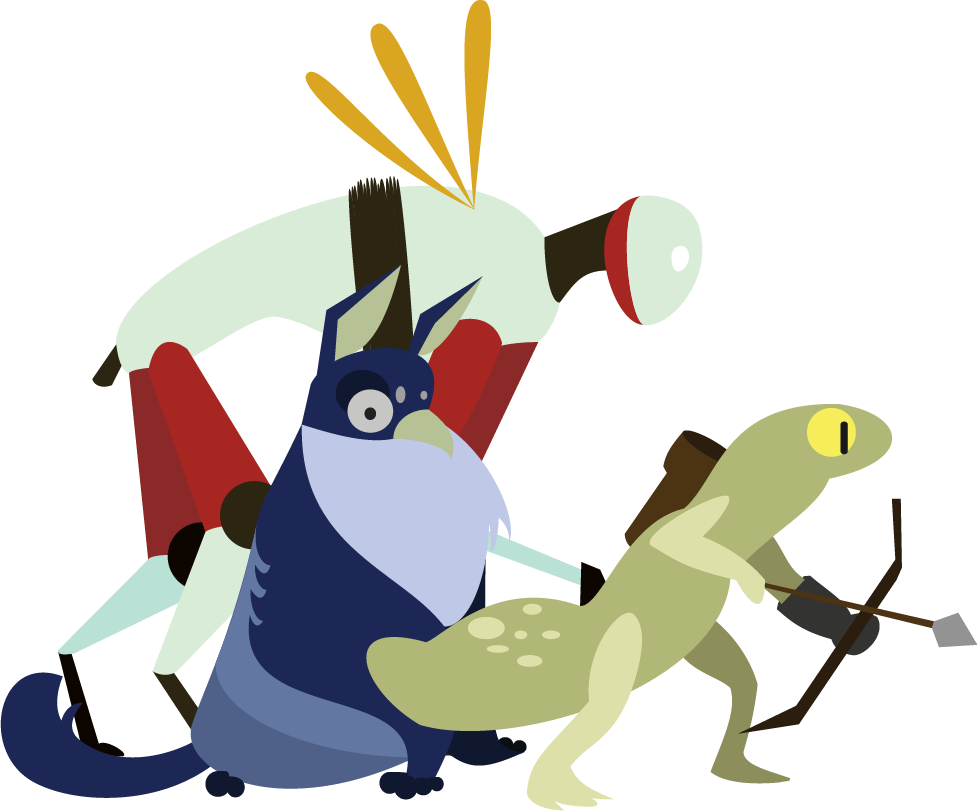
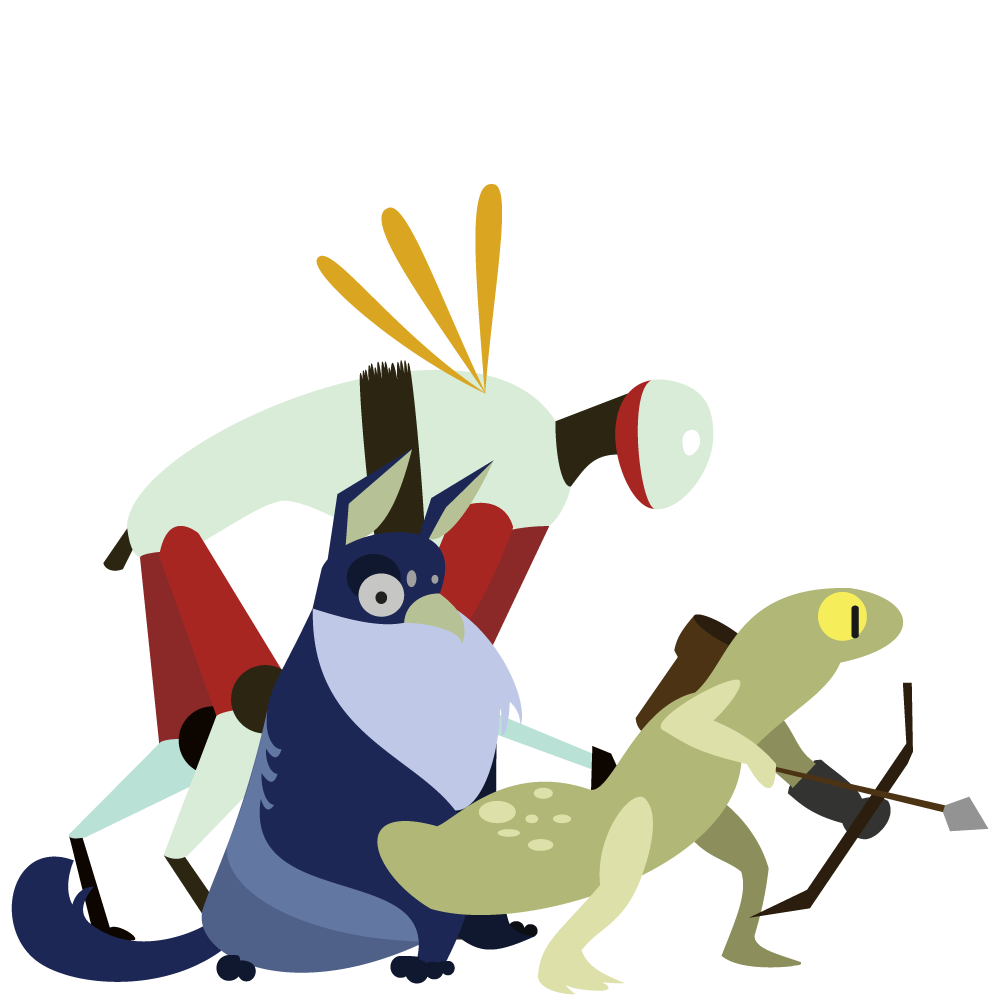
finally fixed the navbar

diff --git a/index.html b/index.html
@@ -59,9 +59,9 @@
       </div>
       <div class="white-body">
         <!-- <div class="battle"> -->
-          <img class="leftField" src="Images/LeftSide.png">
-          <img class="centerField" src="Images/Desk-Sprite.png">
-          <img class="rightField" src="Images/RightSide.png">
+          <img class="in leftField" src="Images/LeftSide.png">
+          <img class="in centerField" src="Images/Desk-Sprite.png">
+          <img class="in rightField" src="Images/RightSide.png">
         <!-- </div> -->
       </div>
     </div>

diff --git a/style.css b/style.css
@@ -165,8 +165,8 @@ a:hover {
   text-align: center;
 }
 .white-body img {
-  width:30%;
   transform:translateY(-70%);
+  width:30%;
 }
 .content {
   width:70%;
